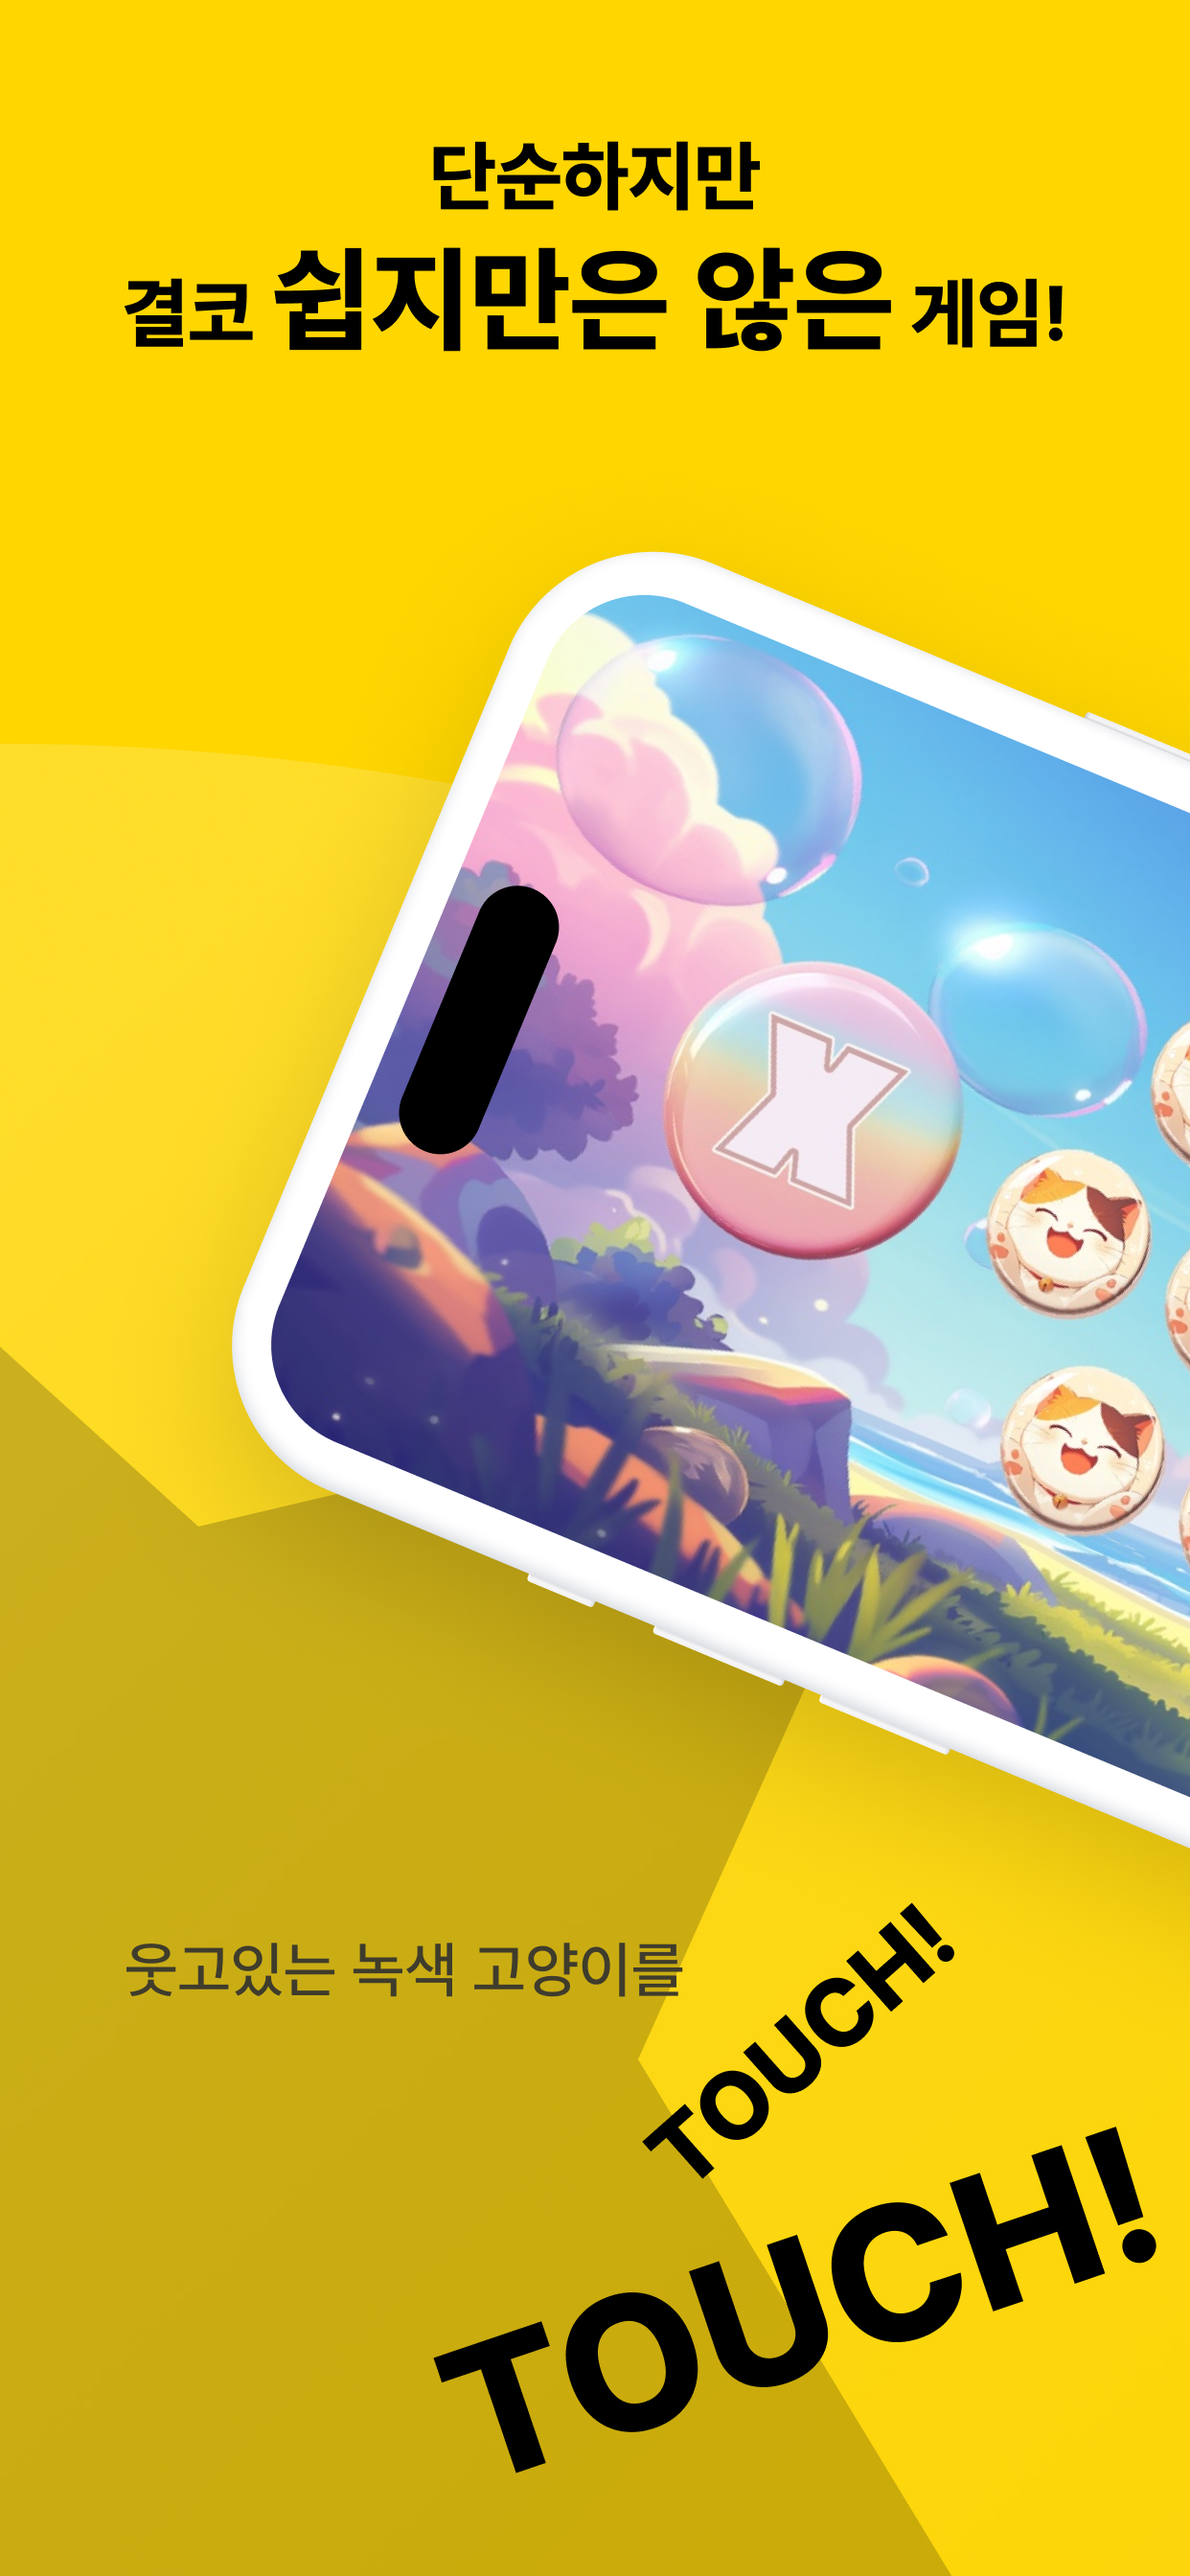
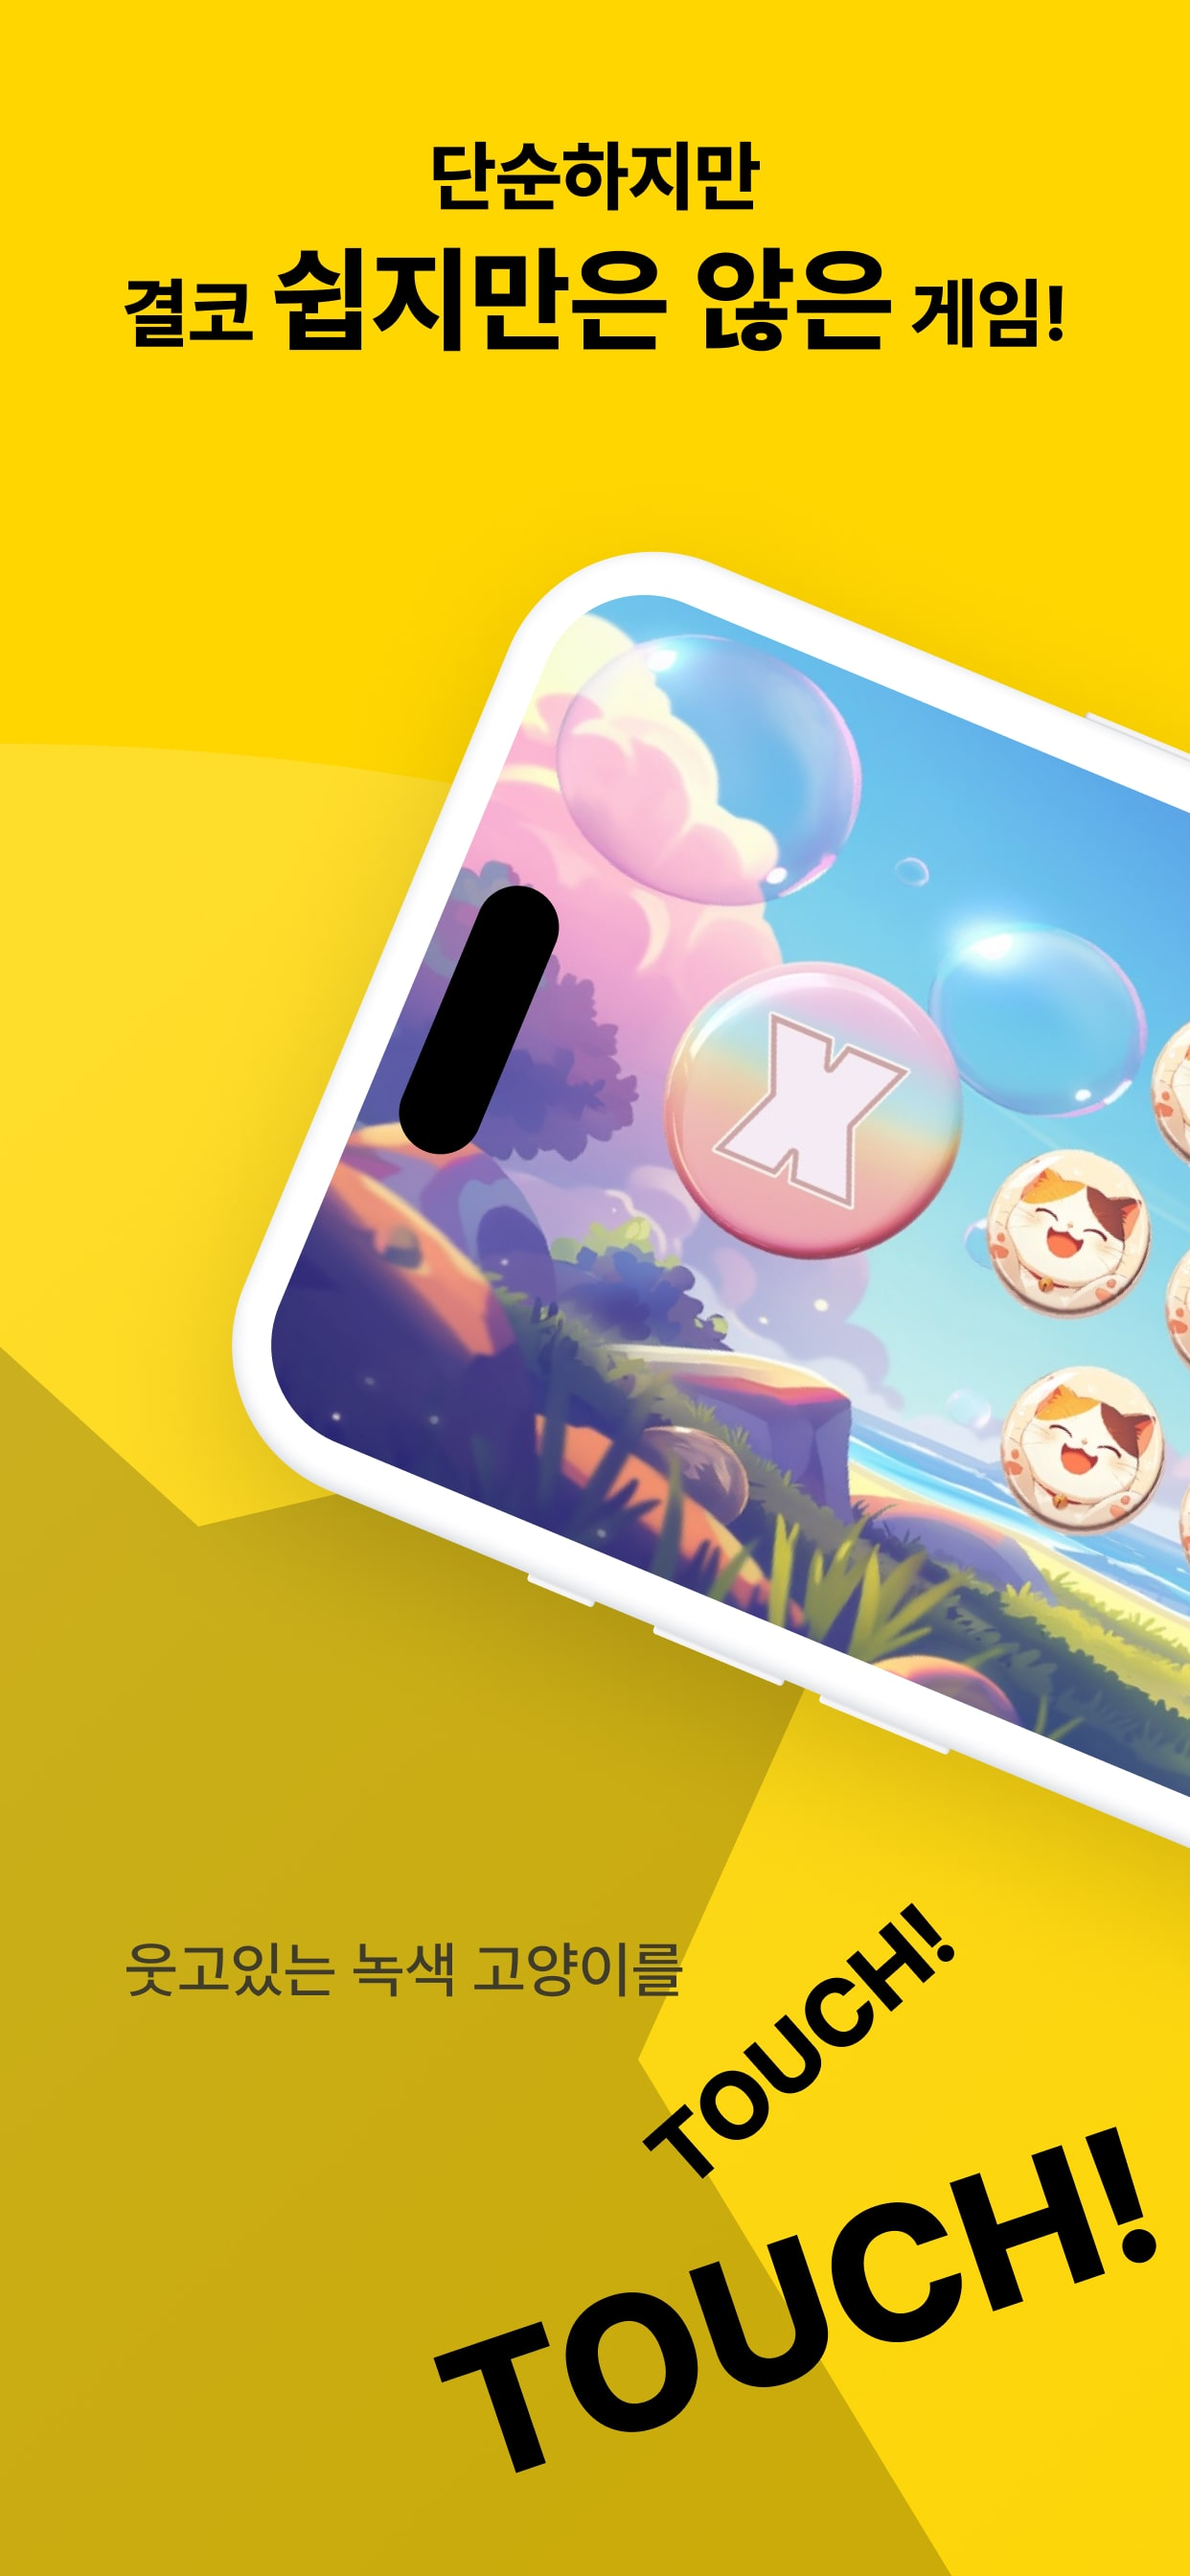
디자인 압축

diff --git a/push_cat/web/flutter_service_worker.js b/push_cat/web/flutter_service_worker.js
@@ -3,7 +3,7 @@ const MANIFEST = 'flutter-app-manifest';
 const TEMP = 'flutter-temp-cache';
 const CACHE_NAME = 'flutter-app-cache';
 
-const RESOURCES = {"flutter_bootstrap.js": "84f47d60a8e2495bdfab804baf6006fa",
+const RESOURCES = {"flutter_bootstrap.js": "8080115a15e101c684626709f6f30f59",
 "version.json": "0af00d0088c4e95f556ffaca874297f7",
 "index.html": "1cd1fa3b41ba41bcc19bfe86e3c963a5",
 "/": "1cd1fa3b41ba41bcc19bfe86e3c963a5",
@@ -15,19 +15,19 @@ const RESOURCES = {"flutter_bootstrap.js": "84f47d60a8e2495bdfab804baf6006fa",
 "icons/Icon-maskable-512.png": "301a7604d45b3e739efc881eb04896ea",
 "icons/Icon-512.png": "96e752610906ba2a93c65f8abe1645f1",
 "manifest.json": "935ace61452b47662d341d4e1d6a34d6",
-"assets/AssetManifest.json": "075ad997cabeb251881417e2fb061c66",
-"assets/NOTICES": "bfc90f452adbb22954e30fbecd7894b0",
+"assets/AssetManifest.json": "f6301e69a1cc75e58f50dbd6e0e635da",
+"assets/NOTICES": "dd3108c3a90760c30c1a6933ebeeaee8",
 "assets/FontManifest.json": "da48a5adebfb743d23f884ef7ca3d513",
-"assets/AssetManifest.bin.json": "a55fa43ee21ed1138779c1bb0fd4e419",
+"assets/AssetManifest.bin.json": "e15a8e2d615a235a18f63be0bfdf82ea",
 "assets/packages/cupertino_icons/assets/CupertinoIcons.ttf": "e986ebe42ef785b27164c36a9abc7818",
 "assets/shaders/ink_sparkle.frag": "ecc85a2e95f5e9f53123dcaf8cb9b6ce",
-"assets/AssetManifest.bin": "3b264e9496131bc1e054e9adef6a8582",
+"assets/AssetManifest.bin": "d7305ab7f91aba697aa154971772de8b",
 "assets/fonts/MaterialIcons-Regular.otf": "0db35ae7a415370b89e807027510caf0",
-"assets/assets/images/title.jpg": "be70202a4aa8caeb2153f2e7ebbba278",
-"assets/assets/images/intro_4.jpg": "8226bb7b74d79c146e05563b539be29f",
-"assets/assets/images/intro_1.jpg": "243bf01e6a4a00c3bcd7b634f0d3ded0",
-"assets/assets/images/intro_3.jpg": "c5c9985adb83fa3ded1e3de681d3e70b",
-"assets/assets/images/intro_2.jpg": "830a27521d2cd36da0ccda1b4adf6b86",
+"assets/assets/images/title.jpg": "3fc9d002e34ab97bd0cff2d733ba78fa",
+"assets/assets/images/intro_4.jpg": "8405d3df2863ef8b620f25e180bf3fed",
+"assets/assets/images/intro_1.jpg": "05176cef953cfebf74fd5afdfcb8ce75",
+"assets/assets/images/intro_3.jpg": "370f87f38998cc8a15be6bf5c2658fe9",
+"assets/assets/images/intro_2.jpg": "a419333b5923ade460cf17513300ce92",
 "assets/assets/images/google-play-badge.png": "d7348750624f5790cad06b81ba678d5b",
 "assets/assets/images/app-store.png": "c2861b1bd251d44ae5b0cbfa6e83c71a",
 "assets/assets/fonts/PretendardJP-Medium.otf": "ae23f6c50b6abf4e7a3b6f21b69224ba",

diff --git a/push_cat/web/flutter_bootstrap.js b/push_cat/web/flutter_bootstrap.js
@@ -11,6 +11,6 @@ _flutter.buildConfig = {"engineRevision":"55eae6864b296dd9f43b2cc7577ec256e5c32a
 
 _flutter.loader.load({
   serviceWorkerSettings: {
-    serviceWorkerVersion: "229794957"
+    serviceWorkerVersion: "459666219"
   }
 });
